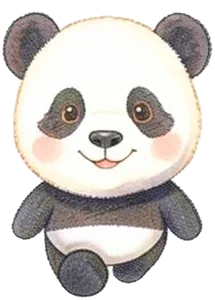
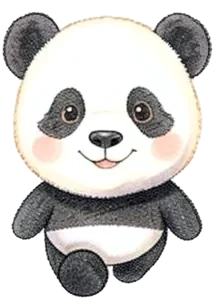
Miniroom: hand items held forward in side view; panda front walk color matched; cat headband and pearls worn naturally

diff --git a/public/js/views.js b/public/js/views.js
@@ -35,7 +35,7 @@ const MR_BODY = {
   '🐰': {"w": 184, "h": 300, "img": {"f0": "img/room/c-1f430-f0.webp?v=1126c", "fa": "img/room/c-1f430-fa.webp?v=1126c", "fb": "img/room/c-1f430-fb.webp?v=1126c", "s0": "img/room/c-1f430-s0.webp?v=1126c", "sa": "img/room/c-1f430-sa.webp?v=1126c", "sb": "img/room/c-1f430-sb.webp?v=1126c", "sc": "img/room/c-1f430-sc.webp?v=1126c", "b0": "img/room/c-1f430-b0.webp?v=1126c", "ba": "img/room/c-1f430-ba.webp?v=1126c", "bb": "img/room/c-1f430-bb.webp?v=1126c"}, "fit": [0.512, 0.325, 0.845, 0.514, 0.664], "head": {"front": [0.512, 0.845], "side": [0.546, 0.849], "back": [0.514, 0.841]}, "eyes": [0.314, 0.511, 0.693, 0.51, 0.036], "hand": {"front": [0.932, 0.81], "side": [0.707, 0.81], "back": [0.902, 0.81]}},
   '🐻': {"w": 223, "h": 300, "img": {"f0": "img/room/c-1f43b-f0.webp?v=1126c", "fa": "img/room/c-1f43b-fa.webp?v=1126c", "fb": "img/room/c-1f43b-fb.webp?v=1126c", "s0": "img/room/c-1f43b-s0.webp?v=1126c", "sa": "img/room/c-1f43b-sa.webp?v=1126c", "sb": "img/room/c-1f43b-sb.webp?v=1126c", "sc": "img/room/c-1f43b-sc.webp?v=1126c", "b0": "img/room/c-1f43b-b0.webp?v=1126c", "ba": "img/room/c-1f43b-ba.webp?v=1126c", "bb": "img/room/c-1f43b-bb.webp?v=1126c"}, "fit": [0.479, 0.001, 0.91, 0.374, 0.654], "head": {"front": [0.479, 0.91], "side": [0.484, 0.907], "back": [0.486, 0.896]}, "eyes": [0.311, 0.383, 0.694, 0.379, 0.048], "hand": {"front": [0.918, 0.769], "side": [0.687, 0.769], "back": [0.885, 0.769]}},
   '🦊': {"w": 238, "h": 300, "img": {"f0": "img/room/c-1f98a-f0.webp?v=1126c", "fa": "img/room/c-1f98a-fa.webp?v=1126c", "fb": "img/room/c-1f98a-fb.webp?v=1126c", "s0": "img/room/c-1f98a-s0.webp?v=1126c", "sa": "img/room/c-1f98a-sa.webp?v=1126c", "sb": "img/room/c-1f98a-sb.webp?v=1126c", "sc": "img/room/c-1f98a-sc.webp?v=1126c", "b0": "img/room/c-1f98a-b0.webp?v=1126c", "ba": "img/room/c-1f98a-ba.webp?v=1126c", "bb": "img/room/c-1f98a-bb.webp?v=1126c"}, "fit": [0.529, 0.144, 0.827, 0.45, 0.68], "head": {"front": [0.529, 0.827], "side": [0.613, 0.743], "back": [0.529, 0.827]}, "eyes": [0.386, 0.446, 0.685, 0.44, 0.029], "hand": {"front": [0.874, 0.78], "side": [0.664, 0.78], "back": [0.841, 0.78]}},
-  '🐼': {"w": 229, "h": 300, "img": {"f0": "img/room/c-1f43c-f0.webp?v=1126c", "fa": "img/room/c-1f43c-fa.webp?v=1126c", "fb": "img/room/c-1f43c-fb.webp?v=1126c", "s0": "img/room/c-1f43c-s0.webp?v=1126c", "sa": "img/room/c-1f43c-sa.webp?v=1126c", "sb": "img/room/c-1f43c-sb.webp?v=1126d", "sc": "img/room/c-1f43c-sc.webp?v=1126d", "s1": "img/room/c-1f43c-s1.webp?v=1126e", "s2": "img/room/c-1f43c-s2.webp?v=1126e", "s3": "img/room/c-1f43c-s3.webp?v=1126e", "s4": "img/room/c-1f43c-s4.webp?v=1126e", "s5": "img/room/c-1f43c-s5.webp?v=1126e", "s6": "img/room/c-1f43c-s6.webp?v=1126e", "s7": "img/room/c-1f43c-s7.webp?v=1126e", "s8": "img/room/c-1f43c-s8.webp?v=1126e", "b0": "img/room/c-1f43c-b0.webp?v=1126c", "ba": "img/room/c-1f43c-ba.webp?v=1126c", "bb": "img/room/c-1f43c-bb.webp?v=1126c"}, "fit": [0.519, 0.041, 0.879, 0.376, 0.621], "head": {"front": [0.519, 0.879], "side": [0.539, 0.879], "back": [0.521, 0.876]}, "eyes": [0.351, 0.377, 0.672, 0.377, 0.04], "hand": {"front": [0.932, 0.759], "side": [0.69, 0.759], "back": [0.899, 0.759]}},
+  '🐼': {"w": 229, "h": 300, "img": {"f0": "img/room/c-1f43c-f0.webp?v=1126c", "fa": "img/room/c-1f43c-fa.webp?v=1126f", "fb": "img/room/c-1f43c-fb.webp?v=1126f", "s0": "img/room/c-1f43c-s0.webp?v=1126c", "sa": "img/room/c-1f43c-sa.webp?v=1126c", "sb": "img/room/c-1f43c-sb.webp?v=1126d", "sc": "img/room/c-1f43c-sc.webp?v=1126d", "s1": "img/room/c-1f43c-s1.webp?v=1126e", "s2": "img/room/c-1f43c-s2.webp?v=1126e", "s3": "img/room/c-1f43c-s3.webp?v=1126e", "s4": "img/room/c-1f43c-s4.webp?v=1126e", "s5": "img/room/c-1f43c-s5.webp?v=1126e", "s6": "img/room/c-1f43c-s6.webp?v=1126e", "s7": "img/room/c-1f43c-s7.webp?v=1126e", "s8": "img/room/c-1f43c-s8.webp?v=1126e", "b0": "img/room/c-1f43c-b0.webp?v=1126c", "ba": "img/room/c-1f43c-ba.webp?v=1126c", "bb": "img/room/c-1f43c-bb.webp?v=1126c"}, "fit": [0.519, 0.041, 0.879, 0.376, 0.621], "head": {"front": [0.519, 0.879], "side": [0.539, 0.879], "back": [0.521, 0.876]}, "eyes": [0.351, 0.377, 0.672, 0.377, 0.04], "hand": {"front": [0.932, 0.759], "side": [0.69, 0.759], "back": [0.899, 0.759]}},
   '🐯': {"w": 237, "h": 300, "img": {"f0": "img/room/c-1f42f-f0.webp?v=1126c", "fa": "img/room/c-1f42f-fa.webp?v=1126c", "fb": "img/room/c-1f42f-fb.webp?v=1126c", "s0": "img/room/c-1f42f-s0.webp?v=1126c", "sa": "img/room/c-1f42f-sa.webp?v=1126c", "sb": "img/room/c-1f42f-sb.webp?v=1126c", "sc": "img/room/c-1f42f-sc.webp?v=1126c", "b0": "img/room/c-1f42f-b0.webp?v=1126c", "ba": "img/room/c-1f42f-ba.webp?v=1126c", "bb": "img/room/c-1f42f-bb.webp?v=1126c"}, "fit": [0.514, 0.031, 0.924, 0.361, 0.657], "head": {"front": [0.514, 0.924], "side": [0.498, 0.86], "back": [0.517, 0.924]}, "eyes": [0.354, 0.368, 0.685, 0.361, 0.052], "hand": {"front": [0.885, 0.782], "side": [0.684, 0.782], "back": [0.854, 0.782]}},
   '🐨': {"w": 276, "h": 300, "img": {"f0": "img/room/c-1f428-f0.webp?v=1126c", "fa": "img/room/c-1f428-fa.webp?v=1126c", "fb": "img/room/c-1f428-fb.webp?v=1126c", "s0": "img/room/c-1f428-s0.webp?v=1126c", "sa": "img/room/c-1f428-sa.webp?v=1126c", "sb": "img/room/c-1f428-sb.webp?v=1126c", "sc": "img/room/c-1f428-sc.webp?v=1126c", "b0": "img/room/c-1f428-b0.webp?v=1126c", "ba": "img/room/c-1f428-ba.webp?v=1126c", "bb": "img/room/c-1f428-bb.webp?v=1126c"}, "fit": [0.495, 0.079, 0.619, 0.4, 0.628], "head": {"front": [0.495, 0.619], "side": [0.629, 0.543], "back": [0.495, 0.615]}, "eyes": [0.351, 0.403, 0.637, 0.401, 0.027], "hand": {"front": [0.774, 0.791], "side": [0.573, 0.791], "back": [0.732, 0.791]}},
   '🐸': {"w": 316, "h": 300, "img": {"f0": "img/room/c-1f438-f0.webp?v=1126c", "fa": "img/room/c-1f438-fa.webp?v=1126c", "fb": "img/room/c-1f438-fb.webp?v=1126c", "s0": "img/room/c-1f438-s0.webp?v=1126c", "sa": "img/room/c-1f438-sa.webp?v=1126c", "sb": "img/room/c-1f438-sb.webp?v=1126c", "sc": "img/room/c-1f438-sc.webp?v=1126c", "b0": "img/room/c-1f438-b0.webp?v=1126c", "ba": "img/room/c-1f438-ba.webp?v=1126c", "bb": "img/room/c-1f438-bb.webp?v=1126c"}, "fit": [0.495, -0.102, 0.635, 0.132, 0.645], "head": {"front": [0.495, 0.635], "side": [0.53, 0.267], "back": [0.482, 0.672]}, "eyes": [0.281, 0.114, 0.714, 0.114, 0.06], "hand": {"front": [0.839, 0.754], "side": [0.613, 0.754], "back": [0.794, 0.754]}},
@@ -61,7 +61,7 @@ const MR_FRAMES = {
 // 귀(뿔·눈) 사이 머리 꼭대기 폭 (머리 폭에 대한 비율): 머리에 쓰는 것은 이 폭에 맞춰 귀 사이에 쓴다
 const MR_GAP = { '🐰': .5, '🐻': .6, '🦊': .5, '🐼': .58, '🐯': .58, '🐨': .55, '🐸': .45, '🦁': .58, '🐧': .62, '🦄': .55 };
 // 머리·목 꾸미기의 옆모습·뒷모습 그림 (있는 것만, 없으면 앞모습 그림을 쓴다)
-const MR_ACC_VIEW = {"🧢": {"side": "img/room/acc/side-1f9e2.png", "back": "img/room/acc/back-1f9e2.png"}, "👒": {"side": "img/room/acc/side-1f452.png", "back": "img/room/acc/back-1f452.png"}, "🎩": {"side": "img/room/acc/side-1f3a9.png", "back": "img/room/acc/back-1f3a9.png"}, "🎓": {"side": "img/room/acc/side-1f393.png", "back": "img/room/acc/back-1f393.png"}, "👑": {"side": "img/room/acc/side-1f451.png", "back": "img/room/acc/back-1f451.png"}, "🎉": {"side": "img/room/acc/side-1f389.png", "back": "img/room/acc/back-1f389.png"}, "🐱": {"side": "img/room/acc/side-1f431.png", "back": "img/room/acc/back-1f431.png"}, "🍄": {"side": "img/room/acc/side-1f344.png", "back": "img/room/acc/back-1f344.png"}, "🧣": {"back": "img/room/acc/back-1f9e3.png"}, "📿": {"side": "img/room/acc/side-1f4ff.png"}, "🏅": {"side": "img/room/acc/side-1f3c5.png"}, "🎗": {"side": "img/room/acc/side-1f397.png"}, "🔔": {"side": "img/room/acc/side-1f514.png"}, "🕶": {"side": "img/room/acc/side-1f576.png"}, "👓": {"side": "img/room/acc/side-1f453.png"}, "🩷": {"side": "img/room/acc/side-1fa77.png"}, "🤿": {"side": "img/room/acc/side-1f93f.png"}};
+const MR_ACC_VIEW = {"🧢": {"side": "img/room/acc/side-1f9e2.png", "back": "img/room/acc/back-1f9e2.png"}, "👒": {"side": "img/room/acc/side-1f452.png", "back": "img/room/acc/back-1f452.png"}, "🎩": {"side": "img/room/acc/side-1f3a9.png", "back": "img/room/acc/back-1f3a9.png"}, "🎓": {"side": "img/room/acc/side-1f393.png", "back": "img/room/acc/back-1f393.png"}, "👑": {"side": "img/room/acc/side-1f451.png", "back": "img/room/acc/back-1f451.png"}, "🎉": {"side": "img/room/acc/side-1f389.png", "back": "img/room/acc/back-1f389.png"}, "🐱": {"side": "img/room/acc/wearside-1f431.png", "back": "img/room/acc/wearback-1f431.png"}, "🍄": {"side": "img/room/acc/side-1f344.png", "back": "img/room/acc/back-1f344.png"}, "🧣": {"back": "img/room/acc/back-1f9e3.png"}, "📿": {"side": "img/room/acc/side-1f4ff.png"}, "🏅": {"side": "img/room/acc/side-1f3c5.png"}, "🎗": {"side": "img/room/acc/side-1f397.png"}, "🔔": {"side": "img/room/acc/side-1f514.png"}, "🕶": {"side": "img/room/acc/side-1f576.png"}, "👓": {"side": "img/room/acc/side-1f453.png"}, "🩷": {"side": "img/room/acc/side-1fa77.png"}, "🤿": {"side": "img/room/acc/side-1f93f.png"}};
 const accViewArt = (emoji, view) => (view !== 'front' && MR_ACC_VIEW[emoji]?.[view]) || WORN_ART[emoji] || (PICS.x[emoji] ? 'img/' + PICS.x[emoji] : '');
 // 전신 캐릭터 (미니룸·별 상점). key: f0 fa fb s0 sa sb b0 ba bb (보기 앞·옆·뒤 × 서 있기·걷기 두 장)
 // 걷는 그림마다 머리 자리가 조금씩 달라서, 그 보기의 서 있는 그림에 머리가 맞도록 몸 전체를 옮긴다 (머리가 흔들리지 않고 다리만 움직이게)
@@ -84,7 +84,7 @@ const roomAvatar = (p, cls = '') => {
   return `<span class="avatar drawn huge mr-ava ${cls}" data-view="front"><span class="ava-body" style="--hx:${f[0]};--top:${f[1]};--hw:${f[2]};--ny:${f[3]};--handx:${f[4]};--handy:${f[5]};--eye:${(b.eyes[1] + b.eyes[3]) / 2};--chest:${f[9]};--crown:${f[10]};--gap:${MR_GAP[p.avatar] || .58};--paw:${de[6]};aspect-ratio:${b.w}/${b.h}"><img class="mr-img" src="${b.img.f0}" alt="" draggable="false">${lids}${acc}</span></span>`;
 };
 // 캐릭터가 쓸 때만 다른 그림 (상점 아이콘은 그대로): 화관은 머리에 얹은 납작한 타원
-const WORN_ART = { '🌸': 'img/room/acc/wear-1f338.png?v=1' };
+const WORN_ART = { '🌸': 'img/room/acc/wear-1f338.png?v=1', '🐱': 'img/room/acc/wear-1f431.png?v=1', '📿': 'img/room/acc/wear-1f4ff.png?v=1' };
 const accArt = (w, worn) => (worn && WORN_ART[w.emoji]) ? `<img src="${WORN_ART[w.emoji]}" alt="" draggable="false">` : PICS.x[w.emoji] ? `<img src="img/${PICS.x[w.emoji]}" alt="" draggable="false">` : w.emoji;
 const avatarHtml = (p, cls = '') => {
   const acc = Store.worn(p).map(w => (w.slot === 'fx' ? ['f1', 'f2', 'f3'] : ['']).map(x => `<i class="acc acc-${w.slot} ${w.id} ${x}" aria-hidden="true">${PICS.a[p.avatar] ? accArt(w, 1) + (w.slot === 'hand' ? '<b class="paw"></b>' : '') : w.emoji}</i>`).join('')).join('');

diff --git a/public/css/style.css b/public/css/style.css
@@ -1361,11 +1361,11 @@ img.ico { width: 1.25em; height: 1.25em; border-radius: 50%; object-fit: cover; 
 /* 11-25 더한 꾸미기: 자리·크기 */
 .avatar.drawn .acc-party { width: calc(var(--hw) * 44%); transform: translate(-50%, -92%) rotate(-8deg); }
 .avatar.drawn .acc-wreath { width: calc(var(--hw) * 82%); transform: translate(-50%, -38%); }
-.avatar.drawn .acc-catears { width: calc(var(--hw) * 96%); transform: translate(-50%, -96%); }
+.avatar.drawn .acc-catears { width: calc(var(--hw) * 96%); transform: translate(-50%, -42%); }
 .avatar.drawn .acc-mushroom { width: calc(var(--hw) * 74%); transform: translate(-50%, -84%) rotate(-6deg); }
 .avatar.drawn .acc-starpin { left: calc((var(--hx) + var(--hw) * .34) * 100%); width: calc(var(--hw) * 36%); transform: translate(-50%, -40%) rotate(-12deg); }
 .avatar.drawn .acc-bowtie { width: calc(var(--hw) * 56%); }
-.avatar.drawn .acc-pearls { width: calc(var(--hw) * 62%); transform: translate(-50%, -24%); }
+.avatar.drawn .acc-pearls { width: calc(var(--hw) * 70%); transform: translate(-50%, -40%); }
 .avatar.drawn .acc-bell { width: 18%; transform: translate(-50%, -20%); }
 .acc-icecream .paw { left: 50%; top: 80%; } .acc-sunflower .paw { left: 50%; top: 74%; } .acc-bubbles .paw { left: 14%; top: 88%; }
 /* 11-25 더한 꾸미기: 움직임 */
@@ -1496,7 +1496,7 @@ img.ico { width: 1.25em; height: 1.25em; border-radius: 50%; object-fit: cover; 
 .avatar.drawn.mr-ava .acc-crown { --k: .82; --sit: 84%; }
 .avatar.drawn.mr-ava .acc-party { --k: .56; --sit: 92%; }
 .avatar.drawn.mr-ava .acc-wreath { --k: 1.45; --sit: 32%; }
-.avatar.drawn.mr-ava .acc-catears { --k: 1.18; --sit: 80%; }
+.avatar.drawn.mr-ava .acc-catears { --k: 1.75; --sit: 48%; }
 .avatar.drawn.mr-ava .acc-mushroom { --k: 1.1; --sit: 66%; }
 /* 걷기: 몸을 기울이는 흔들림 대신 그림 순서와 발 모을 때 살짝 오르기로 움직인다. 방향을 바꿀 때 바로 돈다 */
 .mr-char.walking .mr-bob { animation: none; }
@@ -1504,6 +1504,10 @@ img.ico { width: 1.25em; height: 1.25em; border-radius: 50%; object-fit: cover; 
 .mr-ava .ava-body { transition: translate .08s linear; }
 /* 방향마다 보이는 것: 손 아이템은 앞·뒤·오른쪽을 볼 때 몸 뒤로, 왼쪽을 볼 때 앞으로 */
 .mr-char.near .avatar.drawn.mr-ava[data-view="side"] .acc-hand { z-index: 3; }
+/* 옆모습: 손에 든 것을 걷는 쪽(앞)으로 향하게 뒤집어 몸 앞에서 쥔다 */
+.avatar.drawn.mr-ava[data-view="side"] .acc-hand { z-index: 3; left: calc((var(--handx) - .05) * 100%); top: calc(max(var(--handy), var(--ny) + .2) * 100%); transform-origin: var(--px) var(--py); transform: translate(calc(var(--px) * -1), calc(var(--py) * -1)) scaleX(-1); }
+.avatar.drawn.mr-ava[data-view="side"] .acc-hand.acc-wand { transform: translate(calc(var(--px) * -1), calc(var(--py) * -1)) scaleX(-1) rotate(-16deg); }
+.avatar.drawn.mr-ava[data-view="side"] .acc-hand.acc-balloon { transform: translate(calc(var(--px) * -1), calc(var(--py) * -1)) scaleX(-1) rotate(-48deg); }
 /* 머리핀: 앞모습은 오른쪽, 뒷모습은 왼쪽, 옆모습은 머리핀 쪽이 보일 때(왼쪽을 볼 때)만 */
 .avatar.drawn.mr-ava[data-view="back"] :is(.acc-bow, .acc-flower, .acc-starpin) { left: calc((var(--hx) - var(--hw) * .3) * 100%); transform: translate(-50%, -50%) rotate(-14deg); }
 .avatar.drawn.mr-ava[data-view="side"] :is(.acc-bow, .acc-flower, .acc-starpin) { display: none; }
@@ -1531,6 +1535,7 @@ a.shop-ava { display: block; }
 .avatar.drawn.mr-ava .acc-pearls { top: calc((var(--ny) - .01) * 100%); transform: translate(-50%, 0); }
 .avatar.drawn.mr-ava[data-view="side"] :is(.acc-medal, .acc-bell, .acc-bowtie, .acc-pearls) { left: calc((var(--hx) * .45 + var(--chest) * .55 - .03) * 100%); scale: .6 1; }
 .avatar.drawn.mr-ava .acc-pearls { width: calc(var(--hw) * .36 * 100%); top: calc((var(--ny) - .025) * 100%); }
+.avatar.drawn.mr-ava:not([data-view="side"]) .acc-pearls { width: calc(var(--hw) * .52 * 100%); top: calc((var(--ny) - .02) * 100%); }
 /* 작은 캐릭터: 말풍선은 조금 작게, 걸을 때 오르는 폭은 그대로 */
 .mr-say { font-size: clamp(.7rem, 2vw, .95rem); padding: 3px 8px; }
 /* 방 꾸미기 아이템 방향: 놓은 쪽 벽에 맞게 좌우 뒤집기(--fx)와 벽 따라 살짝 비틀기(--lean) */
